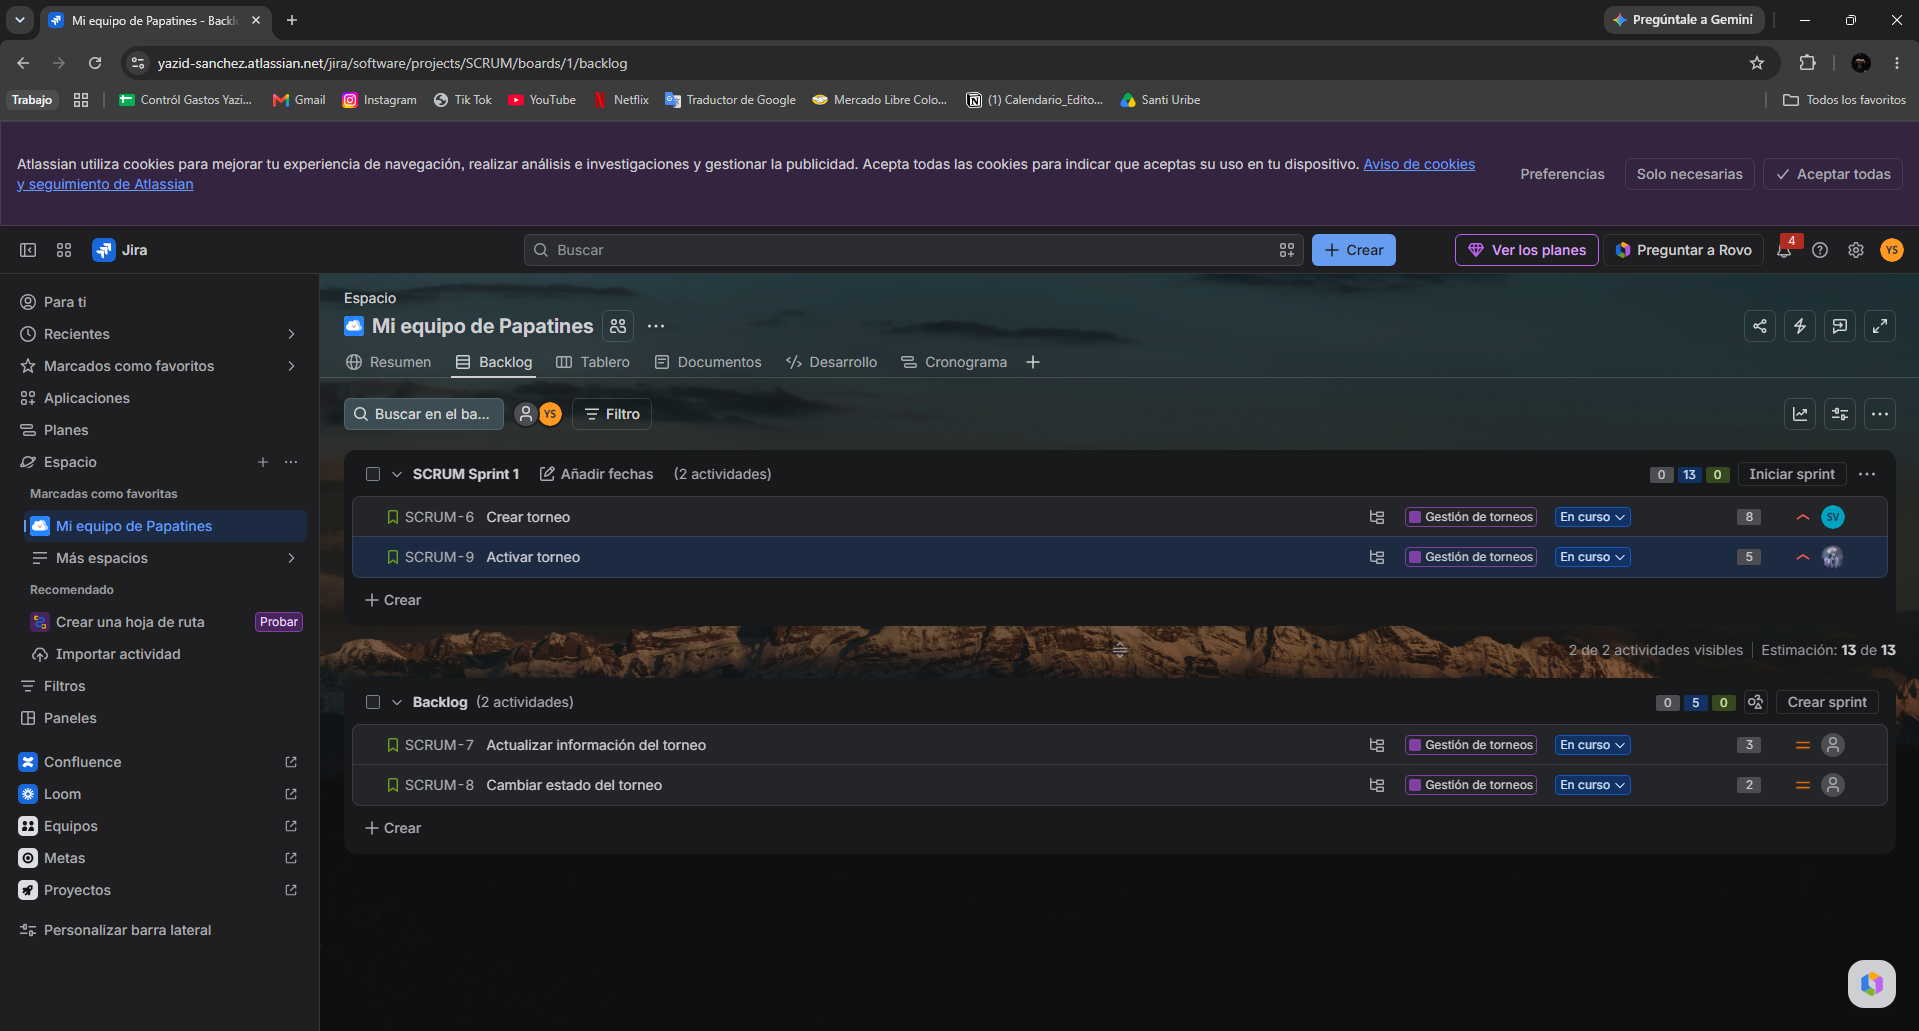
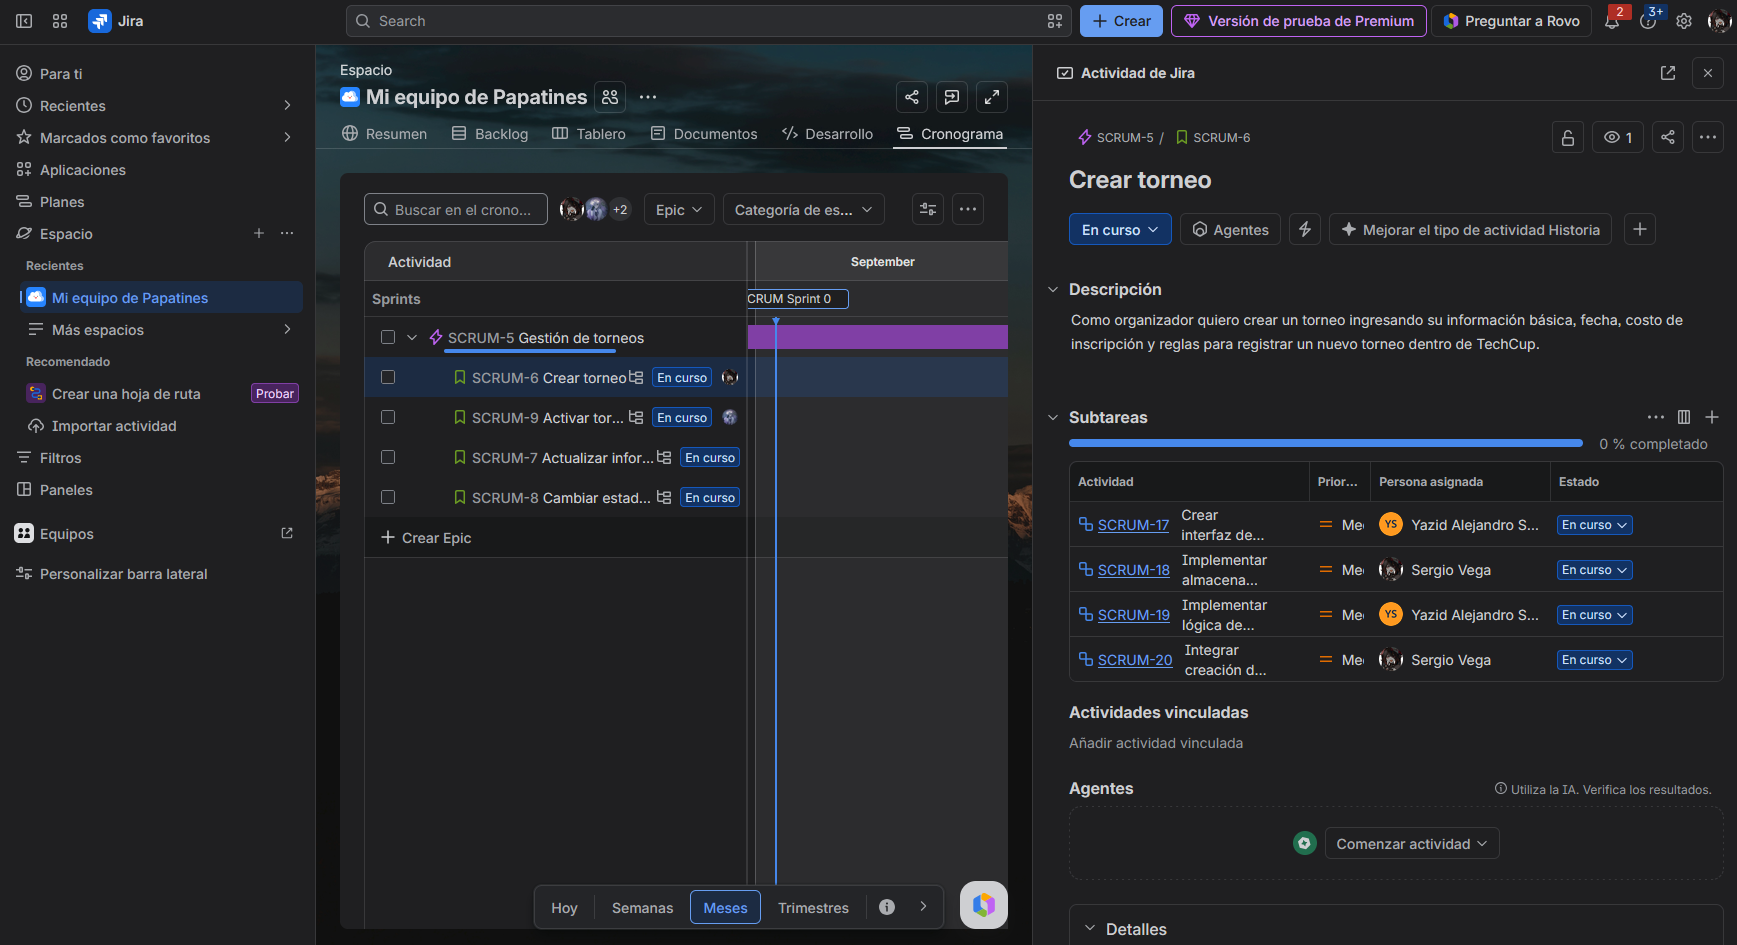
fix(develop): Fix part4

diff --git a/docs/planning/jira.md b/docs/planning/jira.md
@@ -47,5 +47,7 @@
 
 # ![Sprint 1](../images/sprint1.png)
 
+# ![Sprint 1](../images/sprint2.png)
+
 **Justificación de la planeación:**
 Para este primer sprint priorizamos **HU-01 (Crear torneo)** porque es la base de todo el sistema, si no podemos registrar ni guardar torneos, no tiene sentido avanzar con el resto de opciones. Decidimos agregar también **HU-04 (Activar torneo)** para completar de una vez el flujo esencial del organizador, asegurando que desde esta primera entrega el torneo quede habilitado y listo para que los equipos puedan inscribirse sin bloqueos
